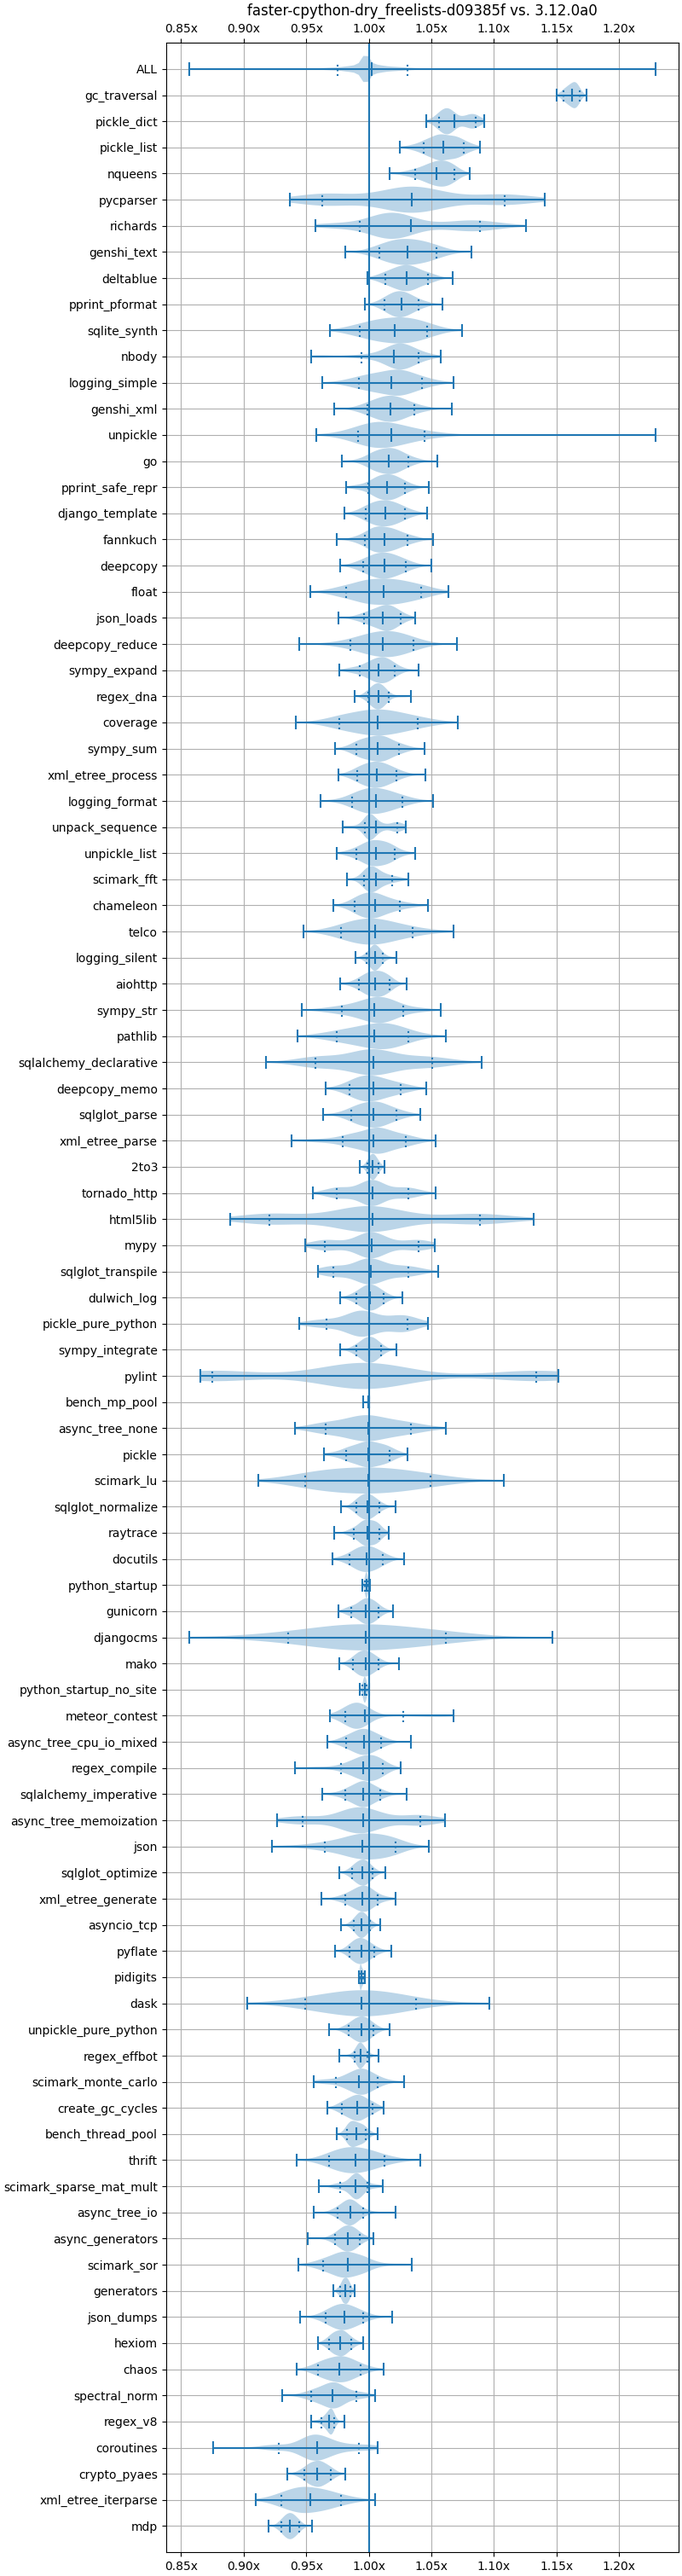
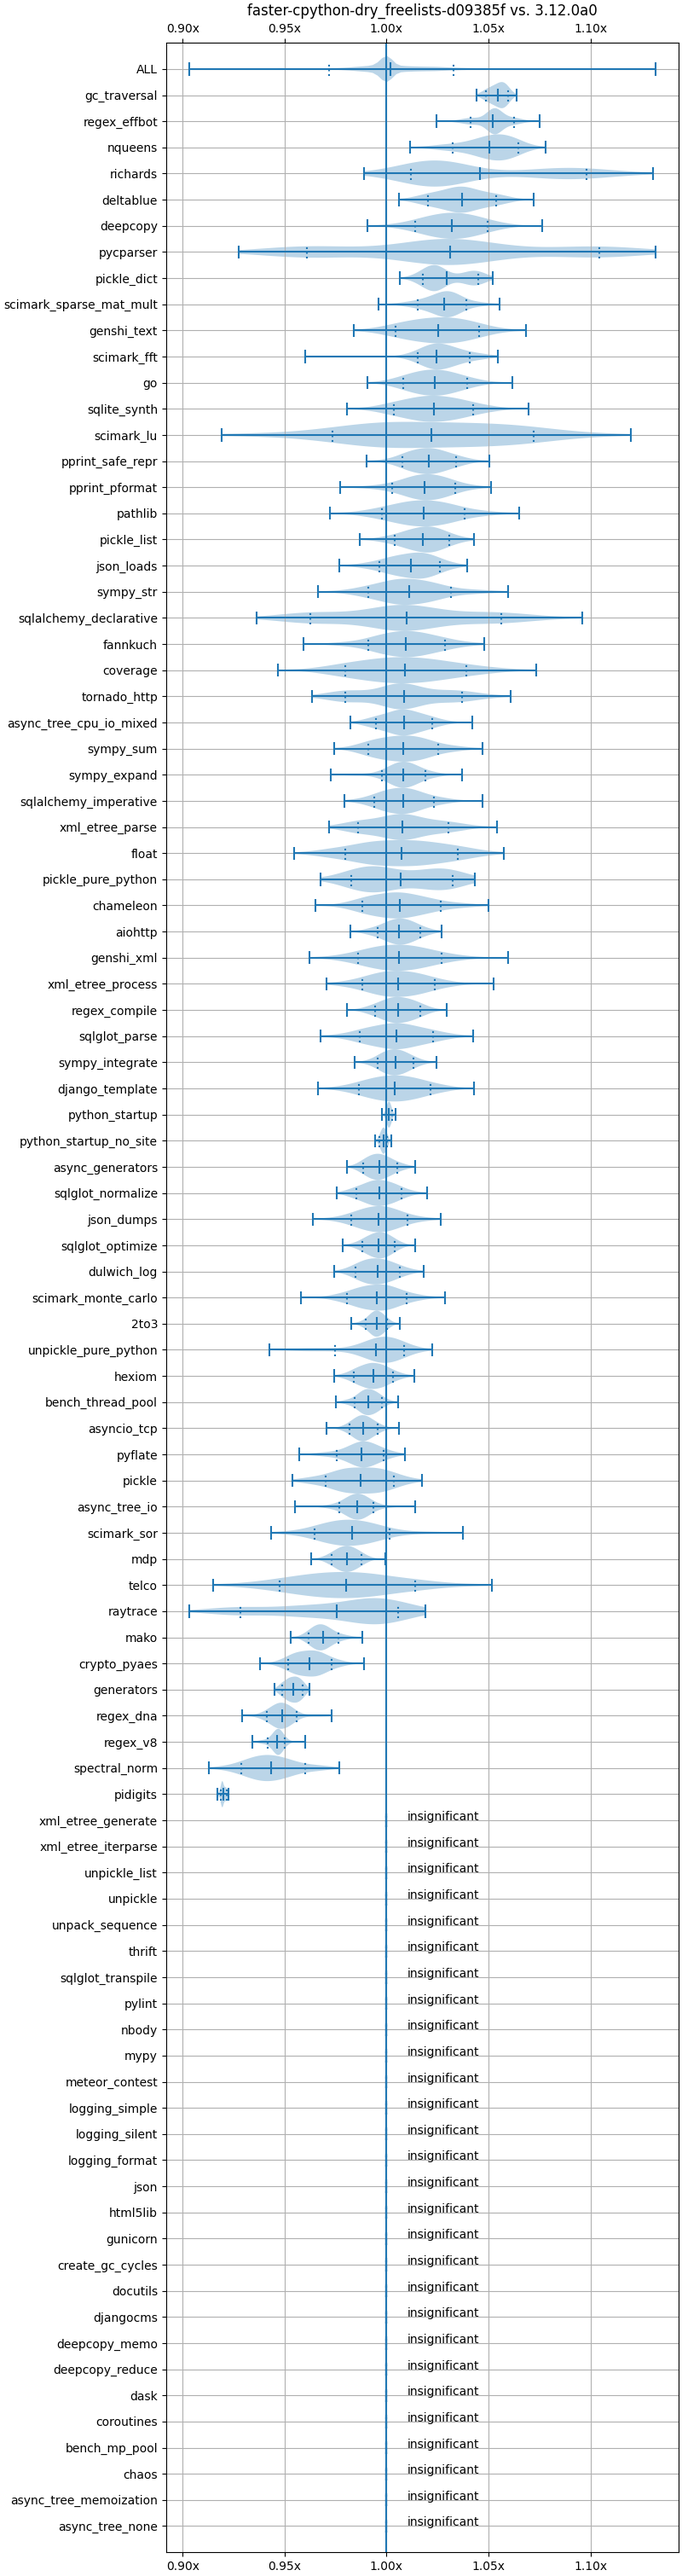
Ignore insignificant benchmarks in plots

diff --git a/scripts/lib/plot.py b/scripts/lib/plot.py
@@ -5,6 +5,7 @@ from typing import Any, Dict
 from matplotlib import pyplot as plt
 import matplotlib
 import numpy as np
+import pyperf
 
 
 matplotlib.use("agg")
@@ -37,10 +38,14 @@ def plot_diff_pair(ax, data):
     master_data = []
     all_data = []
 
-    for name, values, mean in data:
-        idx = np.round(np.linspace(0, len(values) - 1, 100)).astype(int)
-        all_data.append(values[idx])
-        master_data.extend(values)
+    for i, (name, values, mean) in enumerate(data):
+        if values is not None:
+            idx = np.round(np.linspace(0, len(values) - 1, 100)).astype(int)
+            all_data.append(values[idx])
+            master_data.extend(values)
+        else:
+            all_data.append([1.0])
+            ax.text(1.01, i + 1, "insignificant")
 
     all_data.append(master_data)
 
@@ -63,12 +68,17 @@ def formatter(val, pos):
 
 
 def calculate_diffs(ref_values, head_values, outlier_rejection=True):
-    if outlier_rejection:
-        ref_values = remove_outliers(ref_values)
-        head_values = remove_outliers(head_values)
-    values = np.outer(ref_values, 1.0 / head_values).flatten()
-    values.sort()
-    return values, values.mean()
+    sig, t_score = pyperf._utils.is_significant(ref_values, head_values)
+
+    if not sig:
+        return None, 0
+    else:
+        if outlier_rejection:
+            ref_values = remove_outliers(ref_values)
+            head_values = remove_outliers(head_values)
+        values = np.outer(ref_values, 1.0 / head_values).flatten()
+        values.sort()
+        return values, values.mean()
 
 
 def plot_diff(

diff --git a/README.md b/README.md
@@ -101,6 +101,13 @@ We are limited to 2,000 compute minutes per month.
 
 To reduce CI usage, PRs that are only documentation changes should add the `[skip ci]` token to their commit message.
 
+### Analysis changes
+
+This is a changelog of changes that affect the derived data and results:
+
+- 2023-02-09: The plots exclude benchmarks that aren't significant using the same algorithm used by the table results.
+  These benchmarks do not contribute to the overall distribution at the top of the plot.
+
 ### Developer docs
 
 For documentation about how this works, see the [developer docs](DEVELOPER.md).
